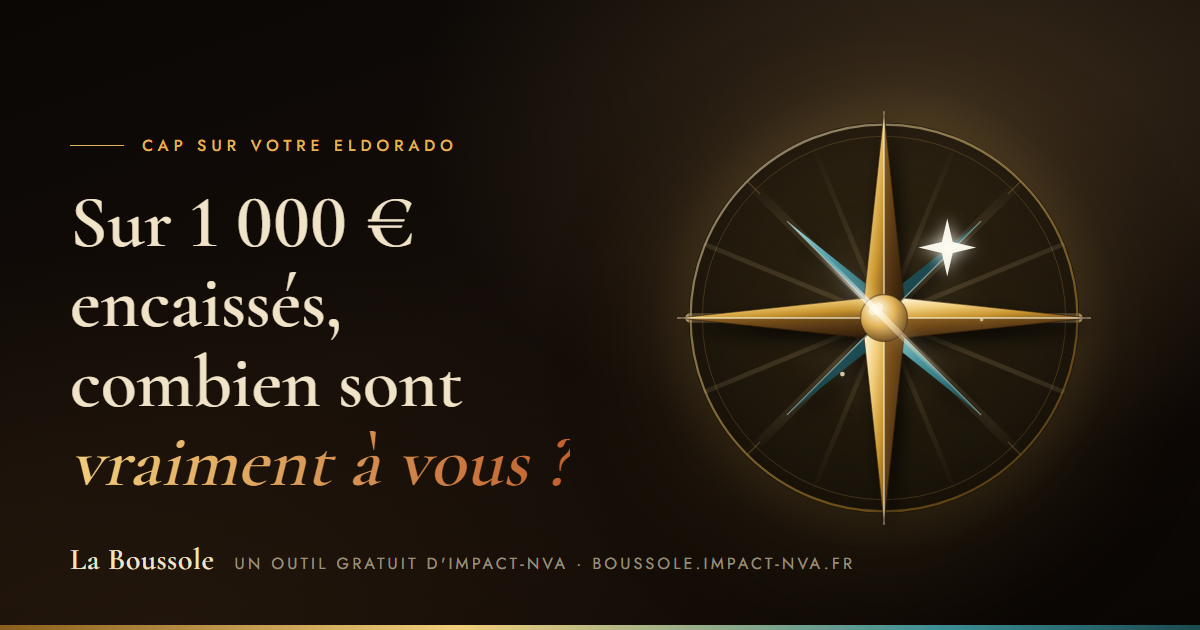
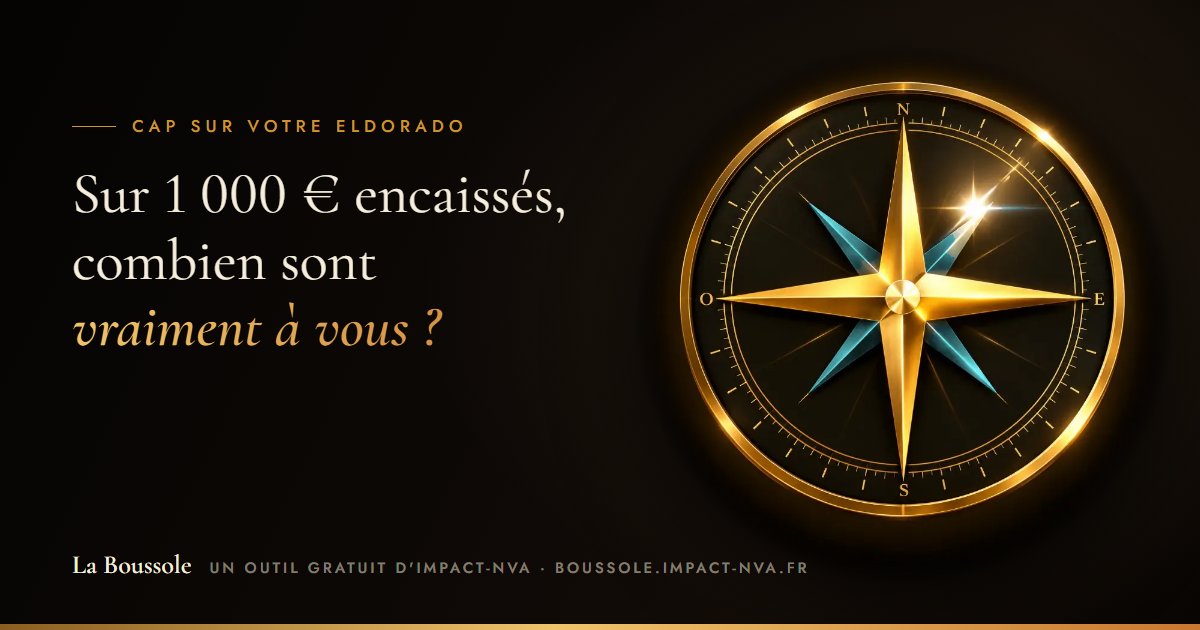
Une vraie boussole dorée dans le hero
La rose dessinée laissait le hero un peu plat : on la remplace par une
boussole photographique détourée de son fond, la rose de face aux branches
jade. Elle tourne en sept minutes, comme l'ancienne, et sert aussi à la
scène d'ouverture et à la carte de partage.

Trois autres emblèmes restent disponibles pour comparer sur le vrai site :
?b=acier, ?b=objet, ?b=carte. La rose dessinée reste dans le fichier,
éteinte, au cas où.

La lueur derrière l'emblème est resserrée : elle débordait sur tout le
carré et faisait virer le noir du site au brun.

diff --git a/index.html b/index.html
@@ -847,7 +847,7 @@ html.ouvre,html.ouvre body{overflow:hidden}
 @keyframes em-rayons{from{transform:rotate(0)}to{transform:rotate(360deg)}}
 @keyframes em-brille{0%,86%,100%{opacity:.25}92%{opacity:1}}
 @keyframes em-scintille{0%,100%{opacity:.35;transform:scale(.85)}50%{opacity:1;transform:scale(1.15)}}
-.em-rayons{transform-origin:260px 260px;animation:em-rayons 90s linear infinite;mix-blend-mode:screen;filter:blur(9px);opacity:.55}
+.em-rayons{transform-origin:260px 260px;animation:em-rayons 90s linear infinite;mix-blend-mode:screen;filter:blur(9px);opacity:.4}
 .em-eclat{animation:em-brille 11s ease-in-out infinite}
 .em-etoile{transform-origin:330px 182px;animation:em-scintille 3.4s ease-in-out infinite}
 .embleme{filter:drop-shadow(0 40px 70px rgba(0,0,0,.8)) drop-shadow(0 0 40px rgba(227,179,85,.28))}
@@ -1091,6 +1091,21 @@ html.ouvre,html.ouvre body{overflow:hidden}
   body{padding-bottom:64px}
 }
 </style>
+<style>
+/* ── L'EMBLÈME PHOTOGRAPHIQUE ── */
+.embleme-vecteur{display:none}
+.embleme{position:relative;display:block}
+/* la lueur chaude reste derrière l'objet, mais serrée autour de lui */
+.embleme::before{content:"";position:absolute;inset:8%;border-radius:50%;
+  background:radial-gradient(circle at 50% 50%,rgba(240,196,106,.16),rgba(240,196,106,.05) 52%,transparent 72%);
+  filter:blur(22px)}
+.embleme img{position:relative;display:block;width:100%;height:100%;object-fit:contain;
+  filter:drop-shadow(0 30px 52px rgba(0,0,0,.8))}
+/* vue de face, elle peut tourner : sept minutes pour un tour, on la sent plus
+   qu'on ne la voit bouger */
+.embleme.tourne img{animation:em-tourne 420s linear infinite}
+@media (prefers-reduced-motion:reduce){.embleme.tourne img{animation:none}}
+</style>
 </head>
 <body>
 <div id="ouverture" aria-hidden="true">
@@ -1244,7 +1259,14 @@ html.ouvre,html.ouvre body{overflow:hidden}
       </div>
 
       <div class="hero-em">
-      <svg class="embleme" viewBox="0 0 520 520" aria-hidden="true">
+      <div class="embleme tourne" aria-hidden="true">
+        <img id="em-photo" alt=""
+             src="images/rose-jade-900.webp"
+             srcset="images/rose-jade-520.webp 520w, images/rose-jade-900.webp 900w"
+             sizes="(max-width:900px) 72vw, 40vw">
+      </div>
+
+      <svg class="embleme-vecteur" viewBox="0 0 520 520" aria-hidden="true">
         <defs>
           <linearGradient id="or-clair" x1=".1" y1="0" x2=".85" y2="1">
             <stop offset="0" stop-color="#FFF6DC"/><stop offset=".35" stop-color="#F2CE7C"/>
@@ -1281,8 +1303,9 @@ html.ouvre,html.ouvre body{overflow:hidden}
             <feMerge><feMergeNode in="b"/><feMergeNode in="SourceGraphic"/></feMerge>
           </filter>
           <radialGradient id="halo-or" cx=".5" cy=".5" r=".5">
-            <stop offset="0" stop-color="#FFD98F" stop-opacity=".5"/>
-            <stop offset=".45" stop-color="#E3B355" stop-opacity=".16"/>
+            <stop offset="0" stop-color="#FFD98F" stop-opacity=".2"/>
+            <stop offset=".32" stop-color="#E3B355" stop-opacity=".08"/>
+            <stop offset=".66" stop-color="#E3B355" stop-opacity="0"/>
             <stop offset="1" stop-color="#E3B355" stop-opacity="0"/>
           </radialGradient>
           <filter id="f-relief" x="-25%" y="-25%" width="150%" height="150%">
@@ -1301,7 +1324,7 @@ html.ouvre,html.ouvre body{overflow:hidden}
           </g>
         </g></g>
         <circle cx="260" cy="260" r="258" fill="url(#halo-or)"/>
-        <circle cx="260" cy="260" r="216" fill="#0A0704" opacity=".55"/>
+        <circle cx="260" cy="260" r="232" fill="#070504" opacity=".7"/>
 
         <g class="em-tour">
           <!-- le cercle gravé et ses graduations -->
@@ -2861,6 +2884,20 @@ const OUV = (function(){
   return {joue: joue};
 })();
 $("#revoir-ouv").addEventListener("click", OUV.joue);
+
+/* essai : ?b=jade, ?b=objet ou ?b=carte changent l'emblème du hero et de
+   l'ouverture. Sans rien, c'est la rose de face qui s'affiche. */
+(() => {
+  const m = /[?&]b=(acier|objet|carte)/.exec(location.search);
+  if (!m) return;
+  const nom = {acier: "rose", objet: "boussole", carte: "boussole-carte"}[m[1]];
+  $$("#em-photo, .ouv-rose img").forEach(i => {
+    i.src = "images/" + nom + "-900.webp";
+    i.srcset = "images/" + nom + "-520.webp 520w, images/" + nom + "-900.webp 900w";
+    /* une boussole vue de trois quarts ne peut pas tourner sans paraître fausse */
+    if (m[1] !== "acier") i.parentNode.classList.remove("tourne");
+  });
+})();
 
 /* ── la poussière d'or du hero ──
    Quelques grains qui montent lentement dans le faisceau de la lanterne.
